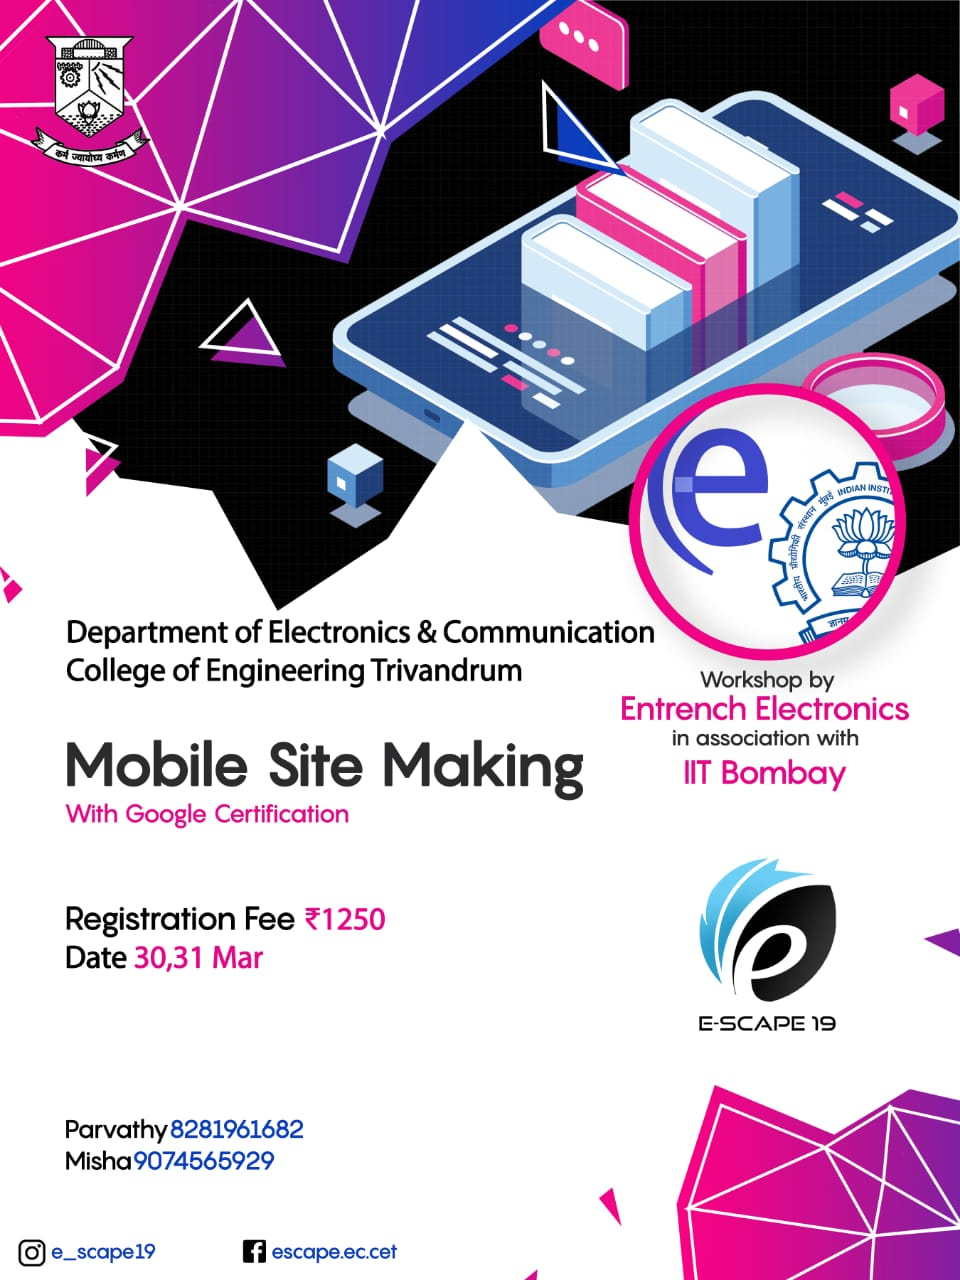
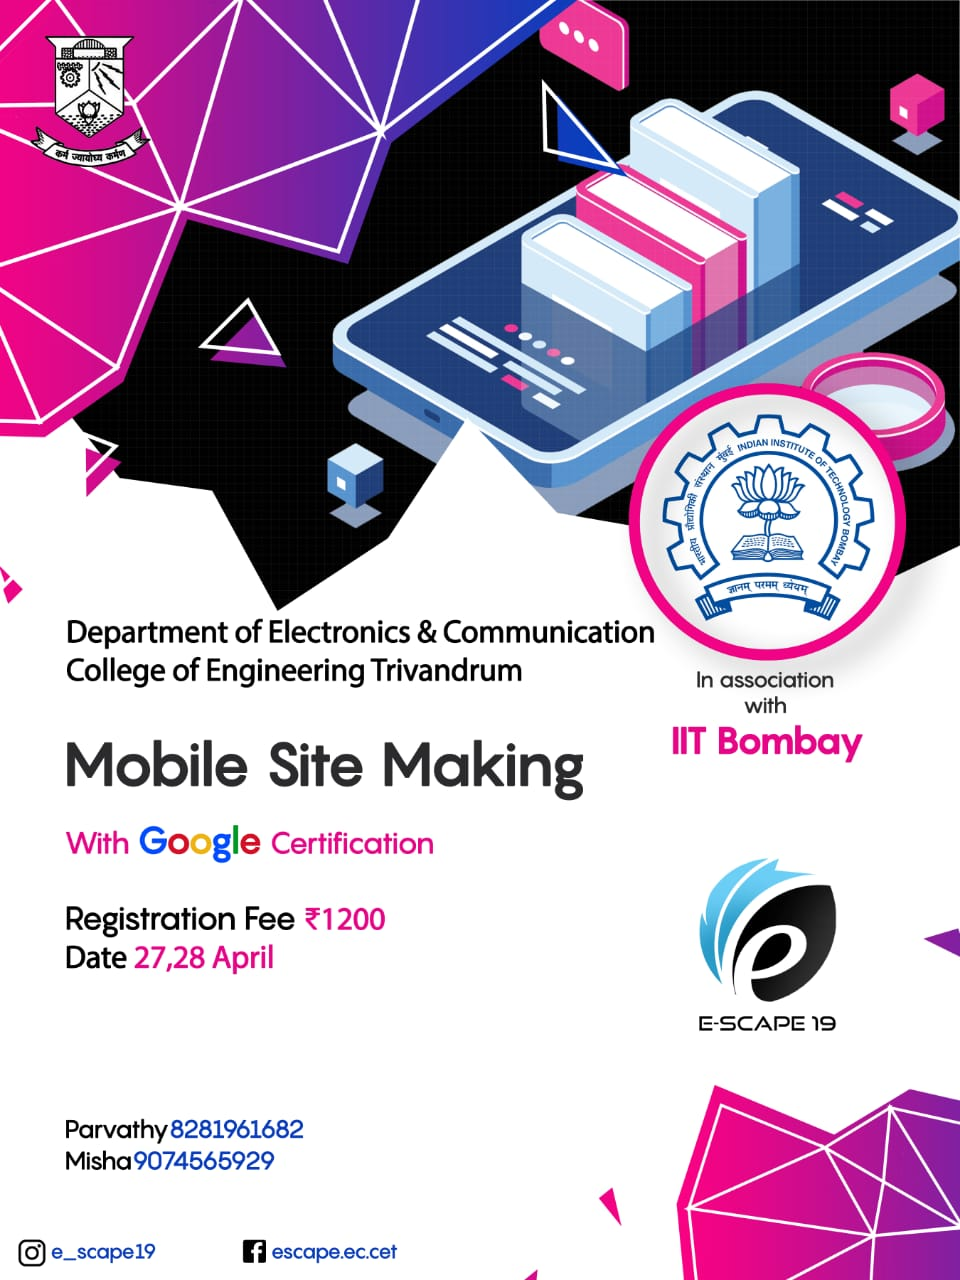
change date

Changed region(s): [[0.625, 0.3125, 0.9688, 0.625], [0.0625, 0.625, 0.4375, 0.6875], [0.1562, 0.7188, 0.2812, 0.7812]]

diff --git a/index.html b/index.html
@@ -90,10 +90,10 @@
 					   <!-- slide -->
 					   <li>
 						   <div class="flex-caption">
-								<h1 class=""><span>e-Scape 19</span>
+								<h1 class=""><span>e-Scape 19</span><br>
 								</h1>	
 									
-								<h3 class="">Department of Electronics and Communication, College of Engineering Trivandrum presents e-Scape the first edition of its Tech Fest.</h3>				   
+								<h3 class="">Department of Electronics and Communication, College of Engineering Trivandrum presents e-Scape the first edition of its Tech Fest on 27th and 28th April 2019.</h3>				   
 							</div>						
 					   </li>
 						
@@ -493,36 +493,14 @@
 	      		<img src="images/portfolio/modals/lfr.jpg" alt="Linefollower" />
 	      	</div>
 
-		      <div class="description-box">
-					<h4>LINE FOLLOWER</h4>			
-						
-               <span class="categories">It's all about speed!</span>
-			      <p>
-						Our world is developing at a fast pace. Yet, certain things never change. A smart innovator needs a strong foundation of basic knowledge because you can never build castles in the air.
-
-							Now here is your chance to flaunt your skills in the basics of robotics and prove how well you can improve your skills.
-							<br><br>
-							<strong>Department of Electronics and Communication, CET</strong> as part of <strong>e-Scape</strong> , first edition of its tech fest,is here to give you a platform to showcase your bot. 
-							The simplest of them all, get ready to compete with your special <strong>Line Follower</strong> and win exciting prizes.
-							
-							
-							So reach out for your circuit boards and start connecting. 
-							<br><br><strong>Registration fee:</strong> ₹200 per team.
-							 <br>A team can consist of maximum 3 members.
-							<br>
-						<br>	<strong>Prize Money:</strong> ₹10K
-						<br>	
-						<br>	<strong>Date</strong> : <strong> 31st March 2019</strong> 
-						<br>	
-						<br>	<strong>For more details, contact: </strong> 
-						<br><br>Rohit : 9946011460<a href="tel:+919946011460"><i class="fa fa-phone"></i></a>
-							<br>Vikil : 8921695200<a href="tel:+918921695200"><i class="fa fa-phone"></i></a>
-						</p>
+				<div class="description-box">
+			      <h4>Linefollower Race</h4>
+			      <span class="categories">Coming Soon</span>
 		      </div>
 
-            <div class="link-box group">
-            	<a href="https://www.yepdesk.com/line-follower3">Register</a>
-            	<a href="#" class="popup-modal-dismiss">Close</a>         
+            <div class="link-box">               
+					<a href="#" class="popup-modal-dismiss">Coming Soon</a>
+		         <a href="#" class="popup-modal-dismiss">Close</a>
             </div>
 
 	      </div><!-- modal-01 end -->
@@ -534,33 +512,15 @@
 	      	</div>
 
 				<div class="description-box">
-						<h4>Circuit Trazer</h4>			
-							
-						<span class="categories">Find your way out the maze!!</span>
-						<p>
-								We live in a world where everything from brain signals to computers are run by electricity, paths for which are governed by well set out circuits and plans  . Each circuit you encounter is a maze and  each signal through them an impulse . It takes a master to make way out through the strenuous maze of electrons. 
-								<br>Do you think you have the grit and brains to be a technological  maze runner? do you think you are the master of circuits? 
-								<br><br>
-								<strong>Department of Electronics and Communication, CET</strong> as part of <strong>e-Scape</strong> , first edition of its tech fest,is here to help you find the electronic maze runner in you. Gather all your tech knowledge and come design and debug your electronic circuits <strong>as quickly as possible</strong>  and gather exciting prizes.
-								Let's connect and disconnect
-								<br><br><strong>Registration fee:</strong> ₹150 per team.
-								 <br>A team can consist of maximum 3 members.
-								<br>
-							<br>	<strong>Prize Money:</strong> ₹7.5K  
-							<br>	
-							<br>	<strong>Date</strong> : <strong> 31st March 2019</strong> 
-							<br>	
-							<br>	<strong>For more details, contact: </strong> 
-							<br><br>Abhijith:	8281869914<a href="tel:+918281869914"><i class="fa fa-phone"></i></a>
-								<br>Naveen:	9207741755<a href="tel:+919207741755"><i class="fa fa-phone"></i></a>
-								<br>Nibras: 7736459899<a href="tel:+917736459899"><i class="fa fa-phone"></i></a>
-							</p>
-					</div>
+			      <h4>Circuit Tracer</h4>
+			      <span class="categories">Coming Soon</span>
+		      </div>
 
-            <div class="link-box">            	
-               <a href="https://www.yepdesk.com/line-follower3">Register</a>
+            <div class="link-box">               
+					<a href="#" class="popup-modal-dismiss">Coming Soon</a>
 		         <a href="#" class="popup-modal-dismiss">Close</a>
             </div>
+
 
 	      </div><!-- modal-02 end -->
 
